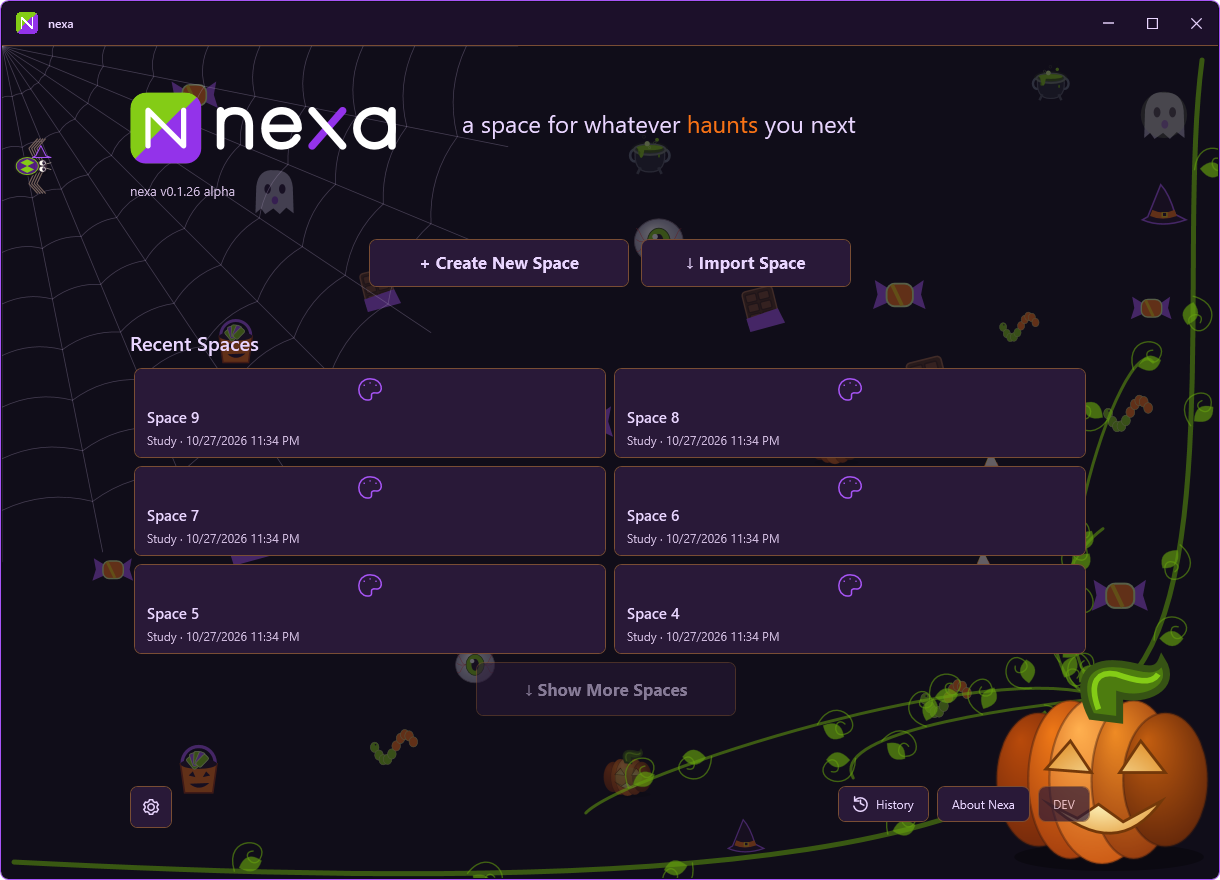
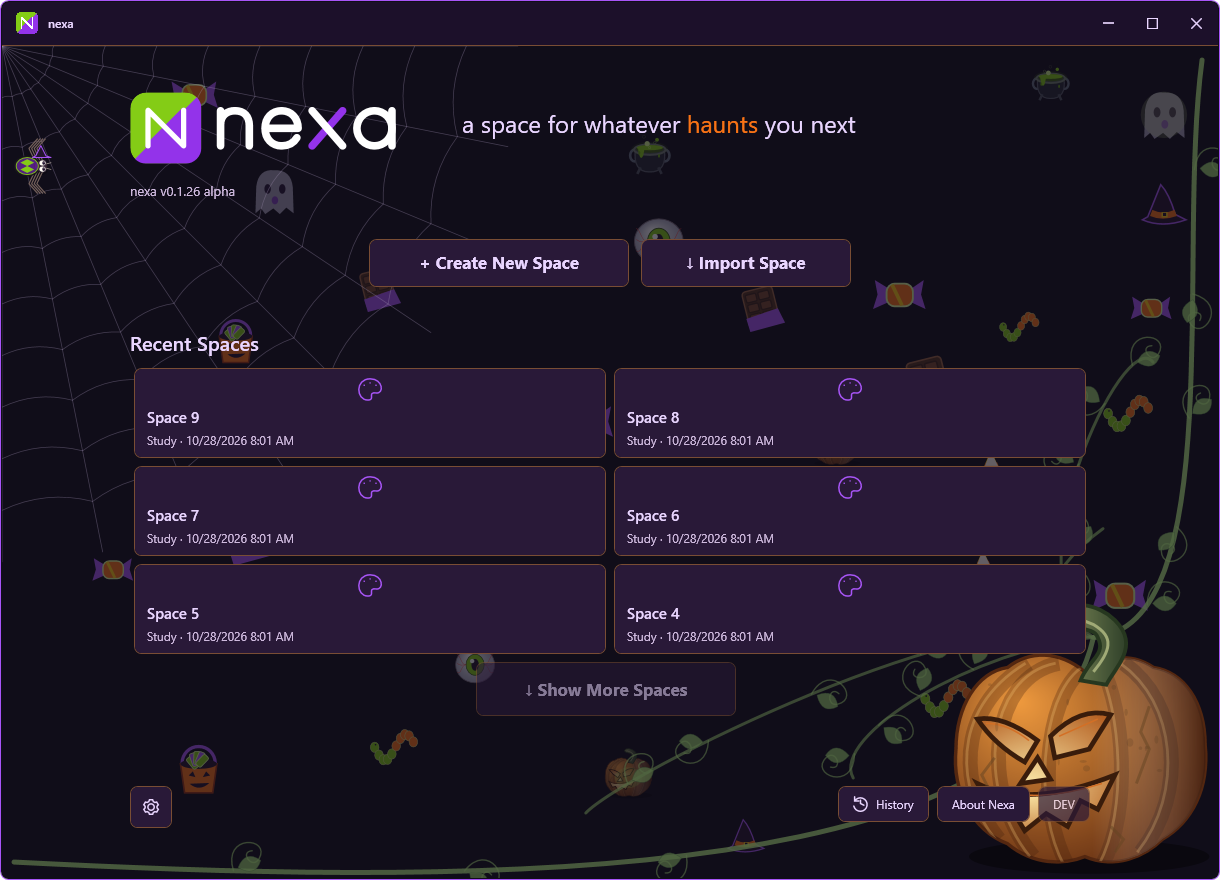
Refine natural pumpkin silhouette and stalk vines with fullscreen Home capture

diff --git a/Nexaween.cs b/Nexaween.cs
@@ -117,6 +117,7 @@ internal sealed partial class NexaweenDecorations : FrameworkElement
         }
         result.Freeze(); drawing = result; ReconcileAnimation(); InvalidateVisual();
     }
+    internal static Point PumpkinStalk(Rect bounds)=>new(bounds.Left+bounds.Width*35/64,bounds.Top+bounds.Height*8/64);
     private static readonly Dictionary<string, SolidColorBrush> brushes = [];
     private static SolidColorBrush B(string hex)
     { if (!brushes.TryGetValue(hex, out var b)) { b = new((Color)ColorConverter.ConvertFromString(hex)); b.Freeze(); brushes[hex] = b; } return b; }
@@ -130,20 +131,44 @@ internal sealed partial class NexaweenDecorations : FrameworkElement
         switch (kind)
         {
             case 0: case 1: // Pumpkin / jack-o-lantern
-                dc.DrawEllipse(B("#50000000"),null,new(33,58),27,4);
-                for(var lobe=0;lobe<5;lobe++)
+                dc.DrawEllipse(B("#65000000"),null,new(34,59),28,4);
+                var shell=new RadialGradientBrush((Color)ColorConverter.ConvertFromString("#EF9A3E"),(Color)ColorConverter.ConvertFromString("#54230E")){GradientOrigin=new Point(.25,.22),Center=new Point(.4,.44),RadiusX=.7,RadiusY=.76};shell.Freeze();
+                // One continuous silhouette; ribs are clipped shading rather than separate oval bodies.
+                var body=Geometry.Parse("M33,16 C27,11 20,11 15,15 C8,16 3,24 3,34 C2,44 7,53 15,56 C21,61 28,61 33,59 C40,62 47,59 51,55 C58,51 62,43 61,33 C61,23 56,16 49,15 C43,11 38,13 33,16 Z");
+                dc.DrawGeometry(shell,P("#542710",.8),body);
+                dc.PushClip(body);
+                var ribPaths=new[]{
+                    "M27,14 C11,17 8,43 21,59",
+                    "M33,15 C23,22 22,49 29,61",
+                    "M37,15 C42,25 44,48 37,61",
+                    "M42,14 C55,23 57,44 46,58",
+                    "M20,14 C2,25 4,44 13,55"};
+                for(var rib=0;rib<ribPaths.Length;rib++)
                 {
-                    var colors=new[]{("#B84A0B","#6B250B"),("#EE7817","#99360D"),("#FFB04F","#C44D0C"),("#EF8B24","#87300C"),("#C35E10","#572009")};
-                    var pair=colors[lobe];var surface=new RadialGradientBrush((Color)ColorConverter.ConvertFromString(pair.Item1),(Color)ColorConverter.ConvertFromString(pair.Item2)){GradientOrigin=new Point(.28,.2),Center=new Point(.45,.45),RadiusX=.8,RadiusY=.7};surface.Freeze();
-                    dc.DrawEllipse(surface,P("#663B1C10",.65),new(13+lobe*9,36),lobe==2?15:12,19+Math.Sin(lobe*Math.PI/4)*5);
+                    var curve=Geometry.Parse(ribPaths[rib]);
+                    dc.DrawGeometry(null,P(rib==3?"#6035190C":"#483E1D0C",3.5),curve);
+                    dc.PushTransform(new TranslateTransform(-.8,0));
+                    dc.DrawGeometry(null,P("#45FFCE7C",.65),curve);dc.Pop();
                 }
-                Shape(dc,"M28,18 C24,10 25,3 34,3 C41,3 46,7 48,2 C53,10 43,14 36,12 L36,19 Z","#4D7C0F","#365314");
-                dc.DrawGeometry(null,P("#84CC16",1.6),Geometry.Parse("M30,16 C27,8 30,5 35,6 C41,8 45,9 47,6"));
+                // Broad soft reflected light follows the front plane, with a shaded rear flank.
+                var flank=new LinearGradientBrush();flank.StartPoint=new(0,0);flank.EndPoint=new(1,0);
+                flank.GradientStops.Add(new GradientStop(Colors.Transparent,.55));
+                flank.GradientStops.Add(new GradientStop((Color)ColorConverter.ConvertFromString("#8030160C"),1));flank.Freeze();
+                dc.DrawGeometry(flank,null,body);
+                dc.Pop();
                 if(kind==1)
                 {
-                    var candle=new RadialGradientBrush((Color)ColorConverter.ConvertFromString("#FFF9C4"),(Color)ColorConverter.ConvertFromString("#D97706")){GradientOrigin=new Point(.46,.65),RadiusX=.8,RadiusY=.8};candle.Freeze();
-                    dc.DrawGeometry(candle,P("#733809",.8),Geometry.Parse("M15,33 L22,25 L28,34 Z M36,34 L42,25 L49,34 Z M16,43 L24,47 L30,43 L37,48 L48,42 Q35,60 16,43 Z"));
+                    var candle=new RadialGradientBrush((Color)ColorConverter.ConvertFromString("#FFF0AF"),(Color)ColorConverter.ConvertFromString("#A94A0D")){GradientOrigin=new Point(.35,.65),RadiusX=.8,RadiusY=.72};candle.Freeze();
+                    var face=Geometry.Parse("M8,27 Q14,26 22,32 L19,37 Q12,33 8,27 Z M25,31 Q32,24 39,26 L34,34 L26,36 Z M22,36 L18,42 L25,41 Z M8,42 Q20,48 40,40 L36,48 L32,46 L29,52 L24,49 L19,53 L16,48 L12,49 Z");
+                    dc.DrawGeometry(candle,P("#391C0B",1.1),face);
+                    dc.DrawGeometry(null,P("#D36F25",.35),Geometry.Parse("M10,28 Q15,28 20,32 M27,31 L36,27 M11,43 Q21,47 37,42"));
                 }
+                var marks=new Random(102726);
+                for(var mark=0;mark<14;mark++){var x=9+marks.NextDouble()*46;var y=18+marks.NextDouble()*35;dc.DrawEllipse(B("#354E351B"),null,new(x,y),.25+marks.NextDouble()*.6,.25+marks.NextDouble());}
+                dc.DrawGeometry(null,P("#80634322",.7),Geometry.Parse("M48,24 l-2,6 2,4 -3,8 M12,36 l-3,4 2,4 M39,52 l3,3 -2,3"));
+                var stalk=new LinearGradientBrush((Color)ColorConverter.ConvertFromString("#7D8957"),(Color)ColorConverter.ConvertFromString("#30412A"),0);stalk.Freeze();
+                dc.DrawGeometry(stalk,P("#26371F",.9),Geometry.Parse("M32,18 C34,13 38,12 36,8 C35,5 29,7 27,3 C29,-1 36,0 40,4 C46,10 40,15 38,19 Z"));
+                dc.DrawGeometry(null,P("#A0AA76",.7),Geometry.Parse("M35,16 C39,11 40,8 35,5 L30,3"));
                 break;
             case 2: // Ghost
                 Shape(dc,"M9,58 L10,25 Q13,3 32,5 Q53,4 55,26 L56,58 L47,51 L39,59 L31,52 L21,59 L16,52 Z","#D8D1F0");

diff --git a/Nexaween.Placement.cs b/Nexaween.Placement.cs
@@ -10,29 +10,32 @@ internal sealed partial class NexaweenDecorations
     internal IReadOnlyList<Rect> AttachmentBounds=>actors.Where(a=>a.Contextual).Select(a=>a.Bounds).ToArray();
     private static void DrawVine(DrawingContext dc,Rect rect,double time=0,Rect? pumpkin=null)
     {
-        var x=pumpkin is {} attached && attached.Left+attached.Width/2<rect.Left+rect.Width/2?rect.Left:rect.Right+3;
-        var y=pumpkin is {} above && above.Top+above.Height/2<rect.Top+rect.Height/2?rect.Top:rect.Bottom+3;var sway=0d;
-        if(pumpkin is {} fruit)
+        var fruit=pumpkin??new Rect(rect.Right-30,rect.Bottom-15,88,88);var stem=PumpkinStalk(fruit);
+        var left=fruit.Left+fruit.Width/2<rect.Left+rect.Width/2;var top=fruit.Top+fruit.Height/2<rect.Top+rect.Height/2;
+        var x=left?rect.Left-4:rect.Right+4;var y=top?rect.Top-4:rect.Bottom+4;var dx=left?1d:-1d;var dy=top?1d:-1d;
+        var growth=time<=0?1:Math.Clamp(time/20,.12,1);dc.PushClip(new RectangleGeometry(new Rect(stem.X-240*growth,stem.Y-240*growth,480*growth,480*growth)));
+        for(var branch=0;branch<5;branch++)
         {
-            var stem=new Point(fruit.Left+fruit.Width*.5,fruit.Top+fruit.Height*.2);
-            var connector=new StreamGeometry();using(var g=connector.Open()){g.BeginFigure(stem,false,false);g.BezierTo(new(stem.X+12,stem.Y-14),new(x+8,y-12),new(x,y),true,false);}dc.DrawGeometry(null,P("#99567D36",3),connector);
+            var end=branch switch{0=>new Point(x+dx*Math.Min(180,rect.Width*.65),y),1=>new Point(x,y+dy*Math.Min(160,rect.Height*.65)),2=>new Point(x+dx*67,y+dy*12),3=>new Point(x+dx*12,y+dy*79),_=>new Point(x+dx*42,y+dy*38)};
+            var one=new Point(stem.X+dx*(14+branch*3),stem.Y-18+branch*2);var two=new Point(end.X-dx*(24+branch*5),end.Y-dy*(branch%2==0?24:10));
+            var path=new StreamGeometry();using(var g=path.Open()){g.BeginFigure(stem,false,false);g.BezierTo(one,two,end,true,false);}path.Freeze();dc.DrawGeometry(null,P(branch<2?"#C0536943":"#99536943",branch<2?3:1.7),path);
+            if(branch<2)for(var leaf=1;leaf<=2;leaf++)
+            {
+                var t=.45+leaf*.18;var u=1-t;var at=new Point(u*u*u*stem.X+3*u*u*t*one.X+3*u*t*t*two.X+t*t*t*end.X,u*u*u*stem.Y+3*u*u*t*one.Y+3*u*t*t*two.Y+t*t*t*end.Y);
+                dc.PushTransform(new TranslateTransform(at.X,at.Y));dc.PushTransform(new RotateTransform(branch*60+leaf*37));dc.DrawGeometry(B("#B04F6540"),P("#8033462D",.5),Geometry.Parse("M0,0 Q5,-13 16,-8 Q14,5 0,0 Z"));
+                dc.DrawGeometry(null,P("#99536943",1),Geometry.Parse("M0,0 C-12,-22 19,-26 16,-12 C12,-4 3,-16 10,-17"));dc.Pop();dc.Pop();
+            }
         }
-        var path=new StreamGeometry();using(var g=path.Open()){g.BeginFigure(new Point(x-68,y),false,false);g.BezierTo(new(x+15,y+9),new(x-8+sway,y-35),new(x+3,y-80),true,false);g.BezierTo(new(x+15,y-95),new(x+23,y-70),new(x+8,y-72),true,false);}path.Freeze();
-        var growth=time<=0?1:Math.Clamp(time/20,.12,1);
-        dc.PushClip(new RectangleGeometry(new Rect(x-80*growth,y-110*growth,115,115*growth)));
-        dc.DrawGeometry(null,P("#99567D36",4),path);
-        for(var branch=0;branch<3;branch++)
-        {var line=new StreamGeometry();using(var g=line.Open()){g.BeginFigure(new(x-branch*17,y),false,false);g.BezierTo(new(x-30-branch*22,y+15),new(x-45-branch*12,y-branch*12),new(x-60-branch*17,y-8),true,false);}dc.DrawGeometry(null,P("#7065A30D",1.5),line);}
-        for(var i=0;i<3;i++){var p=new Point(x-i*19-12,y+Math.Sin(i)*3);dc.PushTransform(new RotateTransform(-35+i*25,p.X,p.Y));dc.DrawEllipse(B("#8065A30D"),null,p,7,3);dc.Pop();}
         dc.Pop();
     }
+
     private void AddContextual(DrawingContext dc,IReadOnlyList<Rect> widgets,List<Rect> occupied,int limit)
     {
         var count=0;
         var selection=new Random(102725);
         foreach(var rect in widgets.OrderBy(_=>selection.Next()))
         {
-            if(count>=limit)break;var size=76d;
+            if(count>=limit)break;var size=88d;
             var candidates=new[]{new Rect(Math.Clamp(rect.Right-size*.4,0,Math.Max(0,Width-size)),rect.Bottom-size*.18,size,size),new Rect(Math.Clamp(rect.Left-size*.6,0,Math.Max(0,Width-size)),rect.Bottom-size*.18,size,size),new Rect(Math.Clamp(rect.Left-size*.3,0,Math.Max(0,Width-size)),rect.Top-size*.85,size,size)};
             var bounds=Rect.Empty;
             foreach(var candidate in candidates)

diff --git a/SeasonalBackdrop.cs b/SeasonalBackdrop.cs
@@ -52,7 +52,7 @@ internal sealed class SeasonalCorners:FrameworkElement
             var a=i*Math.PI/16;var b=(i+1)*Math.PI/16;var radius=size*ring/10;
             var line=new StreamGeometry();using(var g=line.Open()){g.BeginFigure(new(Math.Cos(a)*radius,Math.Sin(a)*radius),false,false);g.QuadraticBezierTo(new(Math.Cos((a+b)/2)*radius*.96,Math.Sin((a+b)/2)*radius*.96),new(Math.Cos(b)*radius,Math.Sin(b)*radius),true,false);}line.Freeze();dc.DrawGeometry(null,pen,line);
         }
-        var pumpkin=Math.Min(225,ActualWidth*.28);var x=ActualWidth-pumpkin;var y=ActualHeight-pumpkin;var stem=new Point(x+pumpkin*.5,y+pumpkin*.2);
+        var pumpkin=Math.Min(275,ActualWidth*.33);var x=ActualWidth-pumpkin;var y=ActualHeight-pumpkin;var stem=NexaweenDecorations.PumpkinStalk(new Rect(x,y,pumpkin,pumpkin));
         var ends=new[]{new Point(12,ActualHeight-16),new Point(ActualWidth-16,14),new Point(ActualWidth*.48,ActualHeight-65),new Point(ActualWidth-65,ActualHeight*.38),new Point(ActualWidth*.7,ActualHeight-100),new Point(ActualWidth-115,ActualHeight*.58)};
         var random=new Random(102726);
         for(var vine=0;vine<ends.Length;vine++)
@@ -61,13 +61,13 @@ internal sealed class SeasonalCorners:FrameworkElement
             if(vine==0){one=new(stem.X-60,ActualHeight+20);two=new(ActualWidth*.35,ActualHeight+5);}
             else if(vine==1){one=new(ActualWidth+12,ActualHeight*.7);two=new(ActualWidth-42,ActualHeight*.25);}
             else{one=new(stem.X-70-random.Next(60),stem.Y+random.Next(-70,110));two=new(end.X+random.Next(-75,76),end.Y+random.Next(-65,66));}
-            var curve=new StreamGeometry();using(var g=curve.Open()){g.BeginFigure(stem,false,false);g.BezierTo(one,two,end,true,false);}curve.Freeze();dc.DrawGeometry(null,BugVisuals.P(vine<2?"#AD4D7C0F":"#8565A30D",vine<2?5:3),curve);
+            var curve=new StreamGeometry();using(var g=curve.Open()){g.BeginFigure(stem,false,false);g.BezierTo(one,two,end,true,false);}curve.Freeze();dc.DrawGeometry(null,BugVisuals.P(vine<2?"#D0536943":"#A0536943",vine<2?5:3),curve);
             for(var leaf=1;leaf<=5;leaf++)
             {
                 var t=leaf/6d;var u=1-t;var at=new Point(u*u*u*stem.X+3*u*u*t*one.X+3*u*t*t*two.X+t*t*t*end.X,u*u*u*stem.Y+3*u*u*t*one.Y+3*u*t*t*two.Y+t*t*t*end.Y);
                 dc.PushTransform(new TranslateTransform(at.X,at.Y));dc.PushTransform(new RotateTransform(random.Next(-165,166)));
-                dc.DrawGeometry(null,BugVisuals.P("#9065A30D",1.4),Geometry.Parse("M0,0 C-18,-35 32,-40 23,-16 C18,-4 2,-20 15,-23"));
-                dc.DrawGeometry(BugVisuals.B("#A365A30D"),BugVisuals.P("#80365314",.6),Geometry.Parse("M4,-4 Q8,-23 25,-15 Q23,3 4,-4 Z"));dc.Pop();dc.Pop();
+                dc.DrawGeometry(null,BugVisuals.P("#A0536943",1.4),Geometry.Parse("M0,0 C-18,-35 32,-40 23,-16 C18,-4 2,-20 15,-23"));
+                dc.DrawGeometry(BugVisuals.B("#C04F6540"),BugVisuals.P("#A02F422D",.6),Geometry.Parse("M4,-4 Q8,-23 25,-15 Q23,3 4,-4 Z"));dc.Pop();dc.Pop();
             }
         }
         dc.PushTransform(new TranslateTransform(x,y));dc.PushTransform(new ScaleTransform(pumpkin/64,pumpkin/64));dc.DrawDrawing(NexaweenDecorations.Asset(1));dc.Pop();dc.Pop();

diff --git a/tests/Nexa026HomePreview.cs b/tests/Nexa026HomePreview.cs
@@ -1,0 +1,26 @@
+using System.IO;
+using System.Windows;
+using System.Windows.Input;
+using System.Windows.Shell;
+using System.Windows.Threading;
+using SessionDashboard;
+internal static partial class Program
+{
+    // Visible preview uses only this run's synthetic records, never the user's saved Spaces.
+    private static void ShowHomeFullscreen026(App app)
+    {
+        var store=new StateStore(Path.Combine(output,"fullscreen-preview.json"));
+        var names=new[]{"Morning focus","Lecture notes","Creative corner","Weekly planning","Reading nook","Personal projects"};
+        var spaces=names.Select((name,i)=>Continuity.NewDashboard(name,"Study",new DashboardData{SpaceIcon=i%2==0?"Book":"Palette",WidgetLayoutInitialized=true,Widgets=[WidgetLibrary.Create("Notes","notes")]},store.UserId)).ToList();
+        var model=Continuity.Activate(new WorkspaceDocument{UserId=store.UserId,ActiveDashboardId=spaces[0].DashboardId,Dashboards=spaces},store.UserId);
+        model.Workspace!.Settings.SeasonalMode="On";model.Workspace.Settings.ReduceMotion=true;store.Save(model);
+        var home=new HomeWindow(store){Title="nexa - fullscreen testing preview",WindowStartupLocation=WindowStartupLocation.Manual,Left=0,Top=0,Width=SystemParameters.PrimaryScreenWidth,Height=SystemParameters.PrimaryScreenHeight,ResizeMode=ResizeMode.NoResize,WindowStyle=WindowStyle.None};
+        WindowChrome.SetWindowChrome(home,null);
+        app.MainWindow=home;home.Show();
+        home.PreviewKeyDown+=(_,e)=>{if(e.Key==Key.Escape)home.Close();};
+        var lifetime=new DispatcherTimer{Interval=TimeSpan.FromMinutes(10)};
+        lifetime.Tick+=(_,_)=>home.Close();home.Closed+=(_,_)=>{lifetime.Stop();app.Shutdown();};lifetime.Start();
+        File.WriteAllText(Path.Combine(output,"preview-window.txt"),$"{home.ActualWidth} x {home.ActualHeight}; synthetic data; Escape closes preview.");
+        app.Run();
+    }
+}

diff --git a/tests/NexaArrivalChecks.cs b/tests/NexaArrivalChecks.cs
@@ -60,7 +60,7 @@ internal static partial class Program
         Assert(ant.State==BugState.Edge && (ant.Position.Y==card.Top || ant.Position.X==card.Right || ant.Position.Y==card.Bottom || ant.Position.X==card.Left) && ant.CrawlPhase>0,"Ants march along actual widget edges with moving legs");
         var hiding=CreateWorld(BugBehavior.Cozy);hiding.SetSurfaces([new BugSurface("hide-card",card)],new Size(1600,1000));var roach=new BugEntity{Species=BugSpecies.Roaches,Position=new(500,400),Activity=BugActivity.Hiding,Decision=5};var lady=new BugEntity{Species=BugSpecies.Ladybugs,Position=new(700,450),Activity=BugActivity.Hiding,State=BugState.Hiding,Decision=5};hiding.Bugs.AddRange([roach,lady]);hiding.Advance(.1);
         Assert(roach.State==BugState.Hiding && lady.State!=BugState.Hiding,"Only roaches may hide behind a widget; other species remain visible");
-        using var art=new NexaweenDecorations();art.Update(1200,1200,[card],"High",[card]);Assert(art.AttachmentBounds.Count>0 && art.AttachmentBounds.All(b=>b.Width==76),"Visible jack-o-lanterns attach at a larger size to free widget corners");
+        using var art=new NexaweenDecorations();art.Update(1200,1200,[card],"High",[card]);Assert(art.AttachmentBounds.Count>0 && art.AttachmentBounds.All(b=>b.Width==88),"Visible jack-o-lanterns attach at a larger size to free widget corners");
         var gallery=WidgetLibrary.Create("Bugs Squashed");gallery.Span=20;gallery.PlacementX=0;gallery.PlacementY=16;
         var productivity=WidgetLibrary.Create("Productivity");productivity.Span=10;productivity.PlacementX=0;productivity.PlacementY=650;
         var bottle=WidgetLibrary.Create("Water Bottle Counter");bottle.Value=4;bottle.PlacementX=.55;bottle.PlacementY=650;

diff --git a/tests/NexaFollowupDesignChecks.cs b/tests/NexaFollowupDesignChecks.cs
@@ -54,7 +54,7 @@ internal static partial class Program
         candy.Update(1600,1500,reserved,"High",widgetTargets:[target]);var originalAttachment=candy.AttachmentBounds.Single();
         Assert(reserved.SequenceEqual(occupiedCopy),"Decoration placement does not modify the caller's occupied collision list");
         var resized=new Rect(100,520,500,280);candy.Update(1600,1500,reserved,"High",widgetTargets:[resized]);
-        Assert(candy.AttachmentBounds.Single()!=originalAttachment && Math.Abs(candy.AttachmentBounds.Single().X-(resized.Right-76*.4))<.001,"Only widget target changes are enough to reposition attached art on resize/move");
+        Assert(candy.AttachmentBounds.Single()!=originalAttachment && Math.Abs(candy.AttachmentBounds.Single().X-(resized.Right-88*.4))<.001,"Only widget target changes are enough to reposition attached art on resize/move");
         var beforeScroll=candy.AttachmentBounds.Single();candy.SetViewport(new Rect(0,400,1200,800));Assert(candy.AttachmentBounds.Single()==beforeScroll,"Viewport scrolling preserves the decoration's canvas attachment coordinates");
         candy.Update(1600,1500,reserved,"High");Assert(candy.ContextualActorCount==0 && !candy.IsHitTestVisible,"Missing optional targets clear contextual art gracefully and never intercept controls");
         candy.Update(1600,1500,[new Rect(target.Right,target.Bottom,100,100)],"High",widgetTargets:[target]);Assert(candy.AttachmentBounds.All(r=>!r.IntersectsWith(new Rect(target.Right,target.Bottom,100,100))),"Reserved UI regions are avoided when choosing a safe alternative widget corner");

diff --git a/tests/Nexa025Checks.cs b/tests/Nexa025Checks.cs
@@ -114,7 +114,7 @@ internal static partial class Program
         var target=Path.Combine(root,"Nexa.exe");File.Copy(candidate,target);
         var old=File.ReadAllBytes(target).Concat(new byte[]{42}).ToArray();File.WriteAllBytes(target,old);var before=UpdateTransaction.Hash(target);
         var store=new StateStore(Path.Combine(root,"data","state.json"));Directory.CreateDirectory(Path.GetDirectoryName(store.FilePath)!);File.WriteAllText(store.FilePath,"preserve user data");
-        string Prepare()=>UpdateTransaction.Prepare(store,target,candidate,UpdateTransaction.Hash(candidate),"0.1.25").GetAwaiter().GetResult();
+        string Prepare()=>UpdateTransaction.Prepare(store,target,candidate,UpdateTransaction.Hash(candidate),App.AppVersion).GetAwaiter().GetResult();
         var plan=Prepare();var rejected=false;try{UpdateTransaction.Apply(plan,_=>Task.FromResult(false),waitForParent:false).GetAwaiter().GetResult();}catch(IOException){rejected=true;}
         Assert(rejected && UpdateTransaction.Hash(target)==before,"Failed installed health check restores the actual previous executable");
         Assert(JsonSerializer.Deserialize<UpdatePlan>(File.ReadAllText(plan))!.State=="RolledBack","Failed update has a durable rollback checkpoint");

diff --git a/tests/Nexa024Runner.cs b/tests/Nexa024Runner.cs
@@ -24,6 +24,7 @@ internal static partial class Program
                 var lifetime=new DispatcherTimer{Interval=TimeSpan.FromSeconds(120)};lifetime.Tick+=(_,_)=>{lifetime.Stop();settings.Close();main.Close();app.Shutdown();};lifetime.Start();
                 settings.Closed+=(_,_)=>{main.Close();lifetime.Stop();app.Shutdown();};main.Closed+=(_,_)=>app.Shutdown();app.Run();return 0;
             }
+            if(args.Contains("--home-fullscreen026")) { ShowHomeFullscreen026(app); return 0; }
             if(args.Contains("--showcase"))GenerateShowcase(args[Array.IndexOf(args,"--showcase")+1]);
             else if(args.Contains("--existing-data"))CheckExistingData(args[Array.IndexOf(args,"--existing-data")+1]);
             else if(args.Contains("--public-updates"))CheckPublicUpdates025();

diff --git a/docs/TESTING-0.1.26-alpha.md b/docs/TESTING-0.1.26-alpha.md
@@ -52,3 +52,13 @@ Only synthetic data and isolated repositories/packages were used for this pass. 
 - Final geometry review moved the spider clear of the version label and joined vines to the actual selected pumpkin corners. Previously completed saved webs are visually revealed after their owners arrive; saved strand state is unchanged.
 
 The testing candidate still requires the manual acceptance listed above. No physical UI, live integration account, live-data migration or real newer-release installation is claimed.
+
+## October 28 pumpkin and fullscreen follow-up
+
+- The shared pumpkin silhouette was corrected; the preceding separate-lobe treatment looked like an oval attached to its side.
+- The Release application/test build completed with zero warnings and zero errors after registering the test-only preview source in the project's explicit compile list.
+- The widget attachment expectations were updated from 76 to 88 logical pixels to match the deliberately enlarged artwork. Resize/move and scroll-coordinate invariants are unchanged.
+- A native Windows capture of Home filling the 2560 x 1440 primary monitor was inspected and saved as [fullscreen Home](media/preview026/home-fullscreen.jpg). It uses only synthetic Spaces. This verifies the visible primary-monitor presentation, not mixed-DPI or all physical interactions.
+- The native update test now uses App.AppVersion instead of a stale 0.1.25 expectation.
+
+- Full post-art regression: **507 checks passed across all fifteen routes**, verification/acceptance-20261028-080105. This includes widget layout/scrolling, persistence, scheduling, guide, score, ecosystem and animation checks.

diff --git a/docs/IMPLEMENTATION-0.1.26-alpha.md b/docs/IMPLEMENTATION-0.1.26-alpha.md
@@ -106,3 +106,11 @@ These are native WPF renders of the testing source with synthetic data.
 ![Saved recap preview](media/preview026/recap.png)
 
 Additional report assets: docs/media/preview026/home.png, docs/media/preview026/guide.png and docs/media/preview026/recap.png.
+
+## Pumpkin shape follow-up, October 28
+
+The shared vector pumpkin now has one continuous rounded body. Its ribs are clipped internal shading rather than separate overlapping oval silhouettes. A darker rear flank and asymmetrical carved face preserve the slight leftward turn. The larger Home/menu pumpkin and widget pumpkins share a curved stalk anchor; every main vine begins at that anchor, with earthy greens, curls and leaves. Widget attachment still uses explicit widget targets, collision avoidance remains separate, and decorative art is not hit-testable.
+
+The isolated fullscreen preview route is --home-fullscreen026 in the checks executable. It displays the real Home controls with six synthetic Spaces, fills the primary monitor, and closes with Escape or after ten minutes. It never loads the user's workspace.
+
+![Fullscreen Home with synthetic Spaces](media/preview026/home-fullscreen.jpg)

diff --git a/docs/RELEASE-READINESS-0.1.26-alpha.md b/docs/RELEASE-READINESS-0.1.26-alpha.md
@@ -4,7 +4,7 @@
 
 The three requested implementation passes are represented in working code. A release has not been published and the approved executable has not been overwritten. This remains alpha.
 
-Candidate destination: M:/Nexa/Builds/Testing/0.1.26-alpha-passes-20261027/Nexa.exe.
+Candidate destination: M:/Nexa/Builds/Testing/0.1.26-alpha-passes-20261028/Nexa.exe.
 
 The final source commit, checksum, complete test totals and packaged health result will be recorded below after packaging.
 
